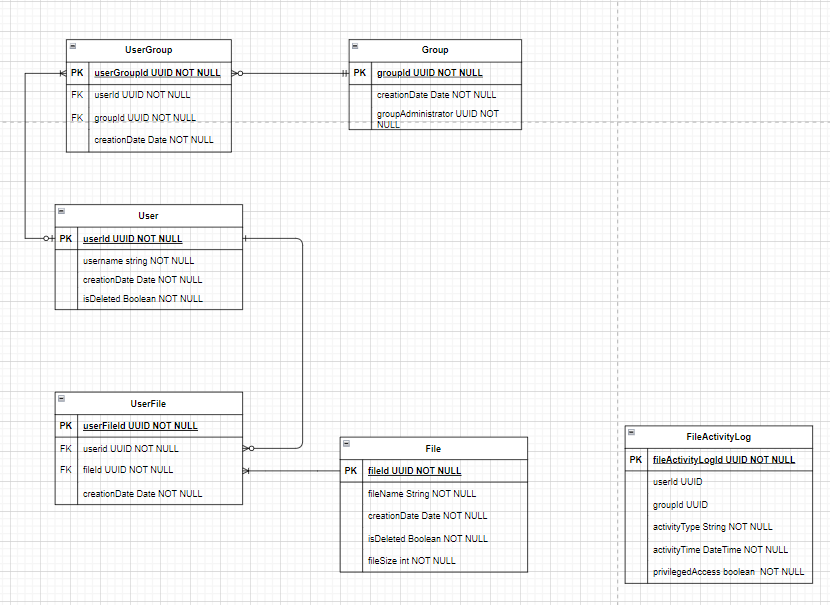
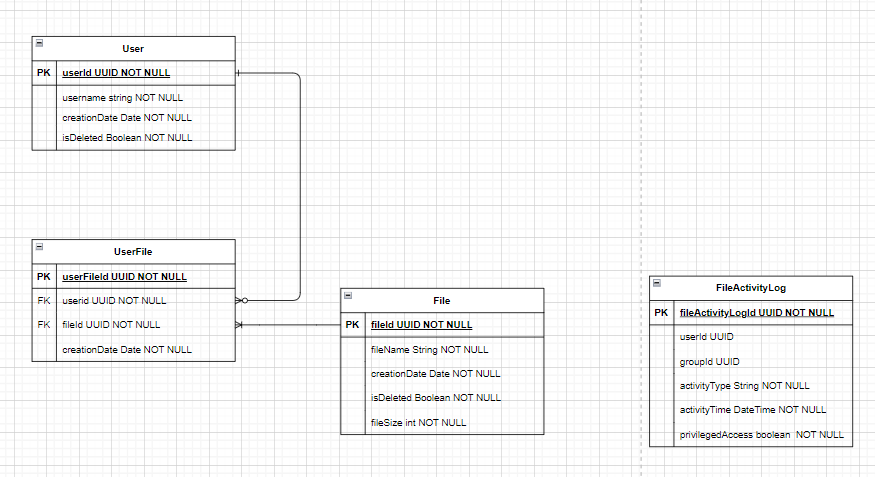
Sequence Diagrams

diff --git a/docs/pages/design/sequenceDiagrams.md b/docs/pages/design/sequenceDiagrams.md
@@ -110,13 +110,13 @@ sequenceDiagram
     actor Requestor
     Requestor ->>+ FileController: HTTP GET /file/{fileId}/{requestorId}
     FileController ->>+ RetrieveFileHandler: handle(RetrieveFileCommand command)
-    RetrieveFileHandler ->>+ UserRepository: getUser(requestorId)
+    RetrieveFileHandler ->>+ UserRepository: getUser(UUID requestorId)
     UserRepository ->>+ RetrieveFileHandler: return User
     alt IF User == null
         RetrieveFileHandler -->>+ FileController: throw UserNotFoundException
     end
 
-    RetrieveFileHandler ->>+ FileRepository: getFileDetails(fileId)
+    RetrieveFileHandler ->>+ FileRepository: getFileDetails(UUID fileId)
     FileRepository -->>+ RetrieveFileHandler: return FileDetails
     alt IF FileDetails == null
         RetrieveFileHandler -->>+ FileController: throw FileNotFoundException
@@ -139,14 +139,14 @@ sequenceDiagram
     actor Requestor
     Requestor ->>+ FileController: HTTP PUT /file/{fileId}/{requestorId} w\ File
     FileController ->>+ UpdateFileHandler: handle(UpdateFileCommand command)
-    UpdateFileHandler ->>+ UserRepository: getUser(requestorId)
+    UpdateFileHandler ->>+ UserRepository: getUser(UUID requestorId)
     UserRepository -->>+ UpdateFileHandler: return User
 
     alt IF User == null
         UpdateFileHandler -->>+ FileController: throw UserNotFoundException
     end
 
-    UpdateFileHandler ->>+ FileRepository: getFile(fileId)
+    UpdateFileHandler ->>+ FileRepository: getFile(UUID fileId)
     FileRepository -->>+ UpdateFileHandler: return FileDetails
 
     alt IF FileDetails == null
@@ -170,4 +170,84 @@ sequenceDiagram
     FileRepository -->>+ RetrieveFileHandler: return boolean
     RetrieveFileHandler -->>+ FileController: return boolean
     FileController -->>+ Requestor: HTTP Response w/ Json Content
+```
+
+### ___Delete File___
+```mermaid
+sequenceDiagram
+    actor Requestor
+    Requestor ->>+ FileController: HTTP DELETE /file/{fileId}/{requestorId}
+    FileController ->>+ DeleteFileHandler: handle(DeleteFileCommand command)
+    DeleteFileHandler ->>+ UserRepository: getUser(UUID requestorId)
+    UserRepository -->>+ DeleteFileHandler: return User
+    
+    alt IF user == null
+        DeleteFileHandler -->>+ FileController: throw UserNotFoundException
+    end
+
+    DeleteFileHandler ->>+ FileRepository: getFile(UUID fileId)
+    FileRepository -->>+ DeleteFileHandler: return FileDetails
+
+    alt IF file == null
+        DeleteFileHandler -->>+ FileController: throw FileNotFoundException
+    end 
+
+    alt IF file.creatorId != requestorId && user.isAdmin != true
+        DeleteFileHandler -->>+ FileController: throw InvalidUserException
+    end
+
+    DeleteFileHandler ->>+ FileManagementImp: deleteFile(string fileUri)
+    FileManagementImp -->>+ DeleteFileHandler: return void
+
+    DeleteFileHandler ->>+ FileRepository: deleteFile(fileId,requestorId)
+    FileRepository -->>+ DeleteFileHandler: return void
+
+    DeleteFileHandler -->>+ FileController: return boolean
+    FileController -->>+ Requestor: HTTP Response w/ Json Data
+```
+
+### ___Get File List___
+```mermaid
+sequenceDiagram
+    actor Requestor
+    Requestor ->>+ FileController: HTTP GET /file/all/{userId}
+    FileController ->>+ GetFileListHandler: handle(GetFileListCommand command)
+    GetFileListHandler ->>+ UserRepository: getUser(UUID userId)
+    UserRepository -->>+ GetFileListHandler: return User
+
+    alt IF User == null
+        GetFileListHandler -->>+ FileController: throw UserNotFoundException
+    end
+
+    GetFileListHandler ->>+ FileRepository: getFileList(UUID userId)
+    FileRepository -->>+ GetFileListHandler: return List<FileDetails>
+    GetFileListHandler -->>+ FileController: return List<FileDetails>
+    FileController -->>+ Requestor: HTTP Response w/ Paginated Json Data
+
+```
+
+## ___Admin Functionality___
+
+### ___Get User List___
+```mermaid
+sequenceDiagram
+    actor Requestor
+    Requestor ->>+ AdminController: HTTP GET /admin/{adminId}
+    AdminController ->>+ GetUserListHandler: handle(GetUserListCommand command)
+    GetUserListHandler ->>+ UserRepository: getUser(UUID adminId)
+    UserRepository -->>+ GetUserListHandler: return User
+
+    alt IF User == null 
+        GetUserListHandler -->>+ AdminController: throw UserNotFoundException
+    end
+
+    alt IF user.isAdmin != true
+        GetUserListHandler -->>+ AdminController: throw InvalidUserException
+    end
+
+    GetUserListHandler ->>+ UserRepository: getUserList(UUID adminId)
+    UserRepository -->>+ GetUserListHandler: return List<User>
+
+    GetUserListHandler -->>+ AdminController: return List<User>
+    AdminController -->>+ Requestor: HTTP Response w/ Paginated Json Data
 ```

diff --git a/docs/pages/design/apiDefinition.md b/docs/pages/design/apiDefinition.md
@@ -66,6 +66,13 @@ ___**Important Note** - All endpoints will be written using HTTP___
         - 400 BAD REQUEST
         - 404 NOT FOUND
         - 500 INTERNAL SERVER ERROR
+- GET File List
+    - Receives User UUID
+    - Returns 
+        - 200 OK w\ File List
+        - 400 BAD REQUEST
+        - 404 NOT FOUND
+        - 500 INTERNAL SERVER ERROR
 
 ## ___Admin Endpoints___
 - GET User List
@@ -75,17 +82,5 @@ ___**Important Note** - All endpoints will be written using HTTP___
         - 400 BAD REQUEST
         - 404 NOT FOUND
         - 500 INTERNAL SERVER ERROR
-- GET User Privileges
-    - Receives Admin UUID & User UUID
-    - Returns
-        - 200 OK w\ List of User Privileges
-        - 400 BAD REQUEST
-        - 404 NOT FOUND
-        - 500 INTERNAL SERVER ERROR
-- POST Add User To Group
-    - Receives Admin UUID, User UUID & Group UUID
-    - Returns
-        - 200 OK
-        - 400 BAD REQUEST
-        - 404 NOT FOUND
-        - 500 INTERNAL SERVER ERROR
+
+

diff --git a/docs/pages/design/databaseDesign.md b/docs/pages/design/databaseDesign.md
@@ -3,6 +3,4 @@
 
 1. User entity is used to represent all users such Normal Users and Administrators.
 2. Users are linked to the File's entity via the UserFile entity.
-3. Administrative Users are linked to Groups via the UserGroup entity.
-    - Groups are used to represent the different Admin roles such as **Admin**, **File Admin** & **Database Admin**.
-4. The FileActivityLog entity will be used to log every Create, Read, Update or Delete event which occurs for any file within the system. This will allow for a traceable audit log to be produced.
+3. The FileActivityLog entity will be used to log every Create, Read, Update or Delete event which occurs for any file within the system. This will allow for a traceable audit log to be produced.

diff --git a/docs/pages/technicalConsiderations.md b/docs/pages/technicalConsiderations.md
@@ -12,8 +12,6 @@ This document contains considerations that must be made when making decisions ab
         - File Deletion
 - Administator Levels
     - Admin (Top Level Admin - Contains access of all other admin types)
-    - File Admin - Read, Update & Deletion access to all users files.
-    - Database Admin - CRUD access to User database records.
     - User - Can CRUD their own files. Do not have access to any other user files.
 - Files must be Encrypted at Rest.
 - Files must have a Unique ID which will be used to interact with them.
